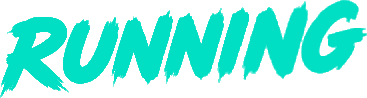
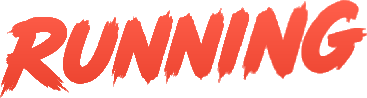
fix(ui): recolor RUNNING brush keyword to brand orange, remove leftover cyan accents, and audit all pages

diff --git a/frontend/src/app/components/app-header.tsx b/frontend/src/app/components/app-header.tsx
@@ -385,7 +385,7 @@ export function AppHeader() {
                 alt="RUNNERUP"
                 width={180}
                 height={40}
-                className="h-8 xs:h-8.5 sm:h-9 lg:h-9.5 w-auto object-contain drop-shadow-[0_2px_14px_rgba(0,223,196,0.35)] transition-transform duration-200 group-hover:scale-105"
+                className="h-8 xs:h-8.5 sm:h-9 lg:h-9.5 w-auto object-contain drop-shadow-[0_2px_14px_rgba(230,72,51,0.35)] transition-transform duration-200 group-hover:scale-105"
               />
             </Link>
           </div>
@@ -473,7 +473,7 @@ export function AppHeader() {
               />
 
               {/* Glowing Accent Orb behind drawer */}
-              <div className="pointer-events-none fixed right-0 top-1/3 -z-10 h-80 w-80 rounded-full bg-[#00dfc4]/15 blur-[120px]" />
+              <div className="pointer-events-none fixed right-0 top-1/3 -z-10 h-80 w-80 rounded-full bg-[#e64833]/15 blur-[120px]" />
 
               {/* Slide-Over Drawer Sheet */}
               <motion.nav
@@ -487,7 +487,7 @@ export function AppHeader() {
                 aria-label="Mobile Navigation"
               >
                 {/* Top Neon Accent Line */}
-                <div className="h-1 w-full bg-gradient-to-r from-[#00dfc4] via-[#00c9b0] to-[#059669] shrink-0" />
+                <div className="h-1 w-full bg-gradient-to-r from-[#e64833] via-[#ea5a47] to-[#fbe9d0] shrink-0" />
 
                 {/* Drawer Header: Brand Logo + Close Pill */}
                 <div className="flex items-center justify-between px-5 pt-4 pb-3.5 border-b border-white/10 shrink-0">
@@ -500,7 +500,7 @@ export function AppHeader() {
                       src="/runnerup-logo.png"
                       alt="RUNNERUP"
                       style={{ height: "32px", width: "auto" }}
-                      className="h-8 max-h-[36px] w-auto object-contain shrink-0 drop-shadow-[0_2px_10px_rgba(0,223,196,0.4)]"
+                      className="h-8 max-h-[36px] w-auto object-contain shrink-0 drop-shadow-[0_2px_10px_rgba(230,72,51,0.4)]"
                     />
                   </Link>
 

diff --git a/frontend/src/app/components/home-hero.tsx b/frontend/src/app/components/home-hero.tsx
@@ -71,7 +71,7 @@ export function HomeHero() {
               <img
                 src="/images/running-brush-word.webp"
                 alt="RUNNING"
-                className="h-12 xs:h-14 sm:h-18 md:h-22 lg:h-24 xl:h-28 w-auto object-contain select-none filter drop-shadow-[0_0_25px_rgba(0,223,196,0.8)]"
+                className="h-12 xs:h-14 sm:h-18 md:h-22 lg:h-24 xl:h-28 w-auto object-contain select-none filter drop-shadow-[0_0_25px_rgba(230,72,51,0.75)]"
               />
             </span>
             <span className="block text-white">RACES</span>
@@ -196,7 +196,7 @@ export function HomeHero() {
       </div>
 
       {/* ─── 3. BOTTOM SECTION: HOW IT WORKS (Desktop) / RUN • EARN • BE PROUD (Mobile) ─── */}
-      <div id="how-it-works" className="relative z-10 w-full mt-3 lg:mt-6">
+      <div className="relative z-10 w-full mt-3 lg:mt-6">
         {/* Desktop "HOW IT WORKS" 4-Step Bar */}
         <div className="hidden lg:block w-full border-t border-white/10 bg-[#172c34]/95 backdrop-blur-md rounded-t-3xl py-4">
           <div className="container-page mx-auto max-w-7xl px-4 sm:px-6 lg:px-8">
